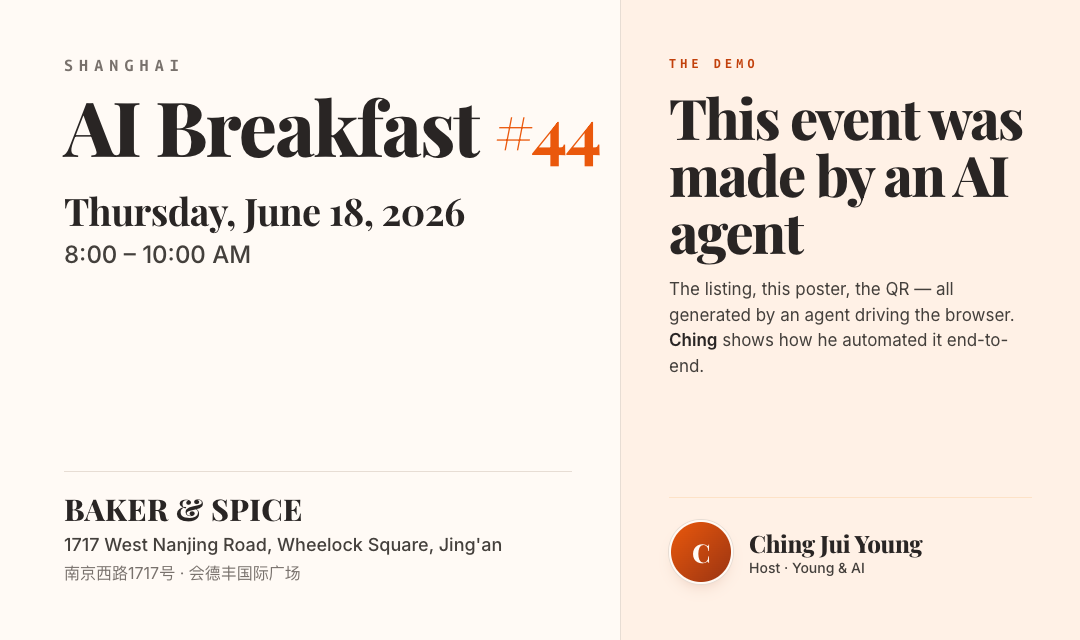
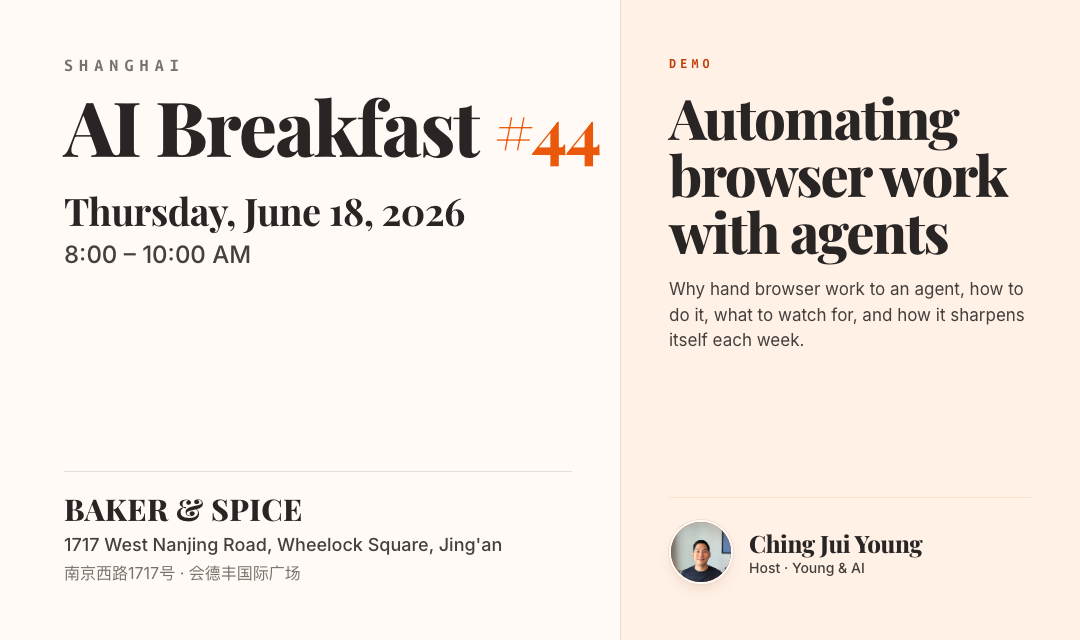
updates

Changed region(s): [[0.6111, 0.1562, 0.9472, 0.5938], [0.6111, 0.8125, 0.7028, 0.9062], [0.6111, 0.0938, 0.7028, 0.125]]

diff --git a/events/2026/ai-breakfast-44/poster-qr.html b/events/2026/ai-breakfast-44/poster-qr.html
@@ -331,19 +331,19 @@
         <div class="agenda">
           <div class="beat">
             <div class="beat-time">8:00</div>
-            <div class="beat-text">Intros — share what you're building with AI.</div>
+            <div class="beat-text">Intros</div>
           </div>
 
           <div class="beat beat-feature">
             <div class="beat-time">8:30</div>
             <div class="card">
-              <div class="card-label">The Demo · why, how, watch-outs, growth</div>
+              <div class="card-label">Demo</div>
               <div class="card-title">Automating browser work with agents</div>
               <div class="card-blurb">
-                Why hand browser tasks to an agent, how to actually do it, what to watch for, and how the agent gets sharper each week. <em>The proof:</em> this listing, this poster, and the QR below — all built by one.
+                Why hand browser tasks to an agent, how to actually do it, what to watch for, and how the agent gets sharper each week.
               </div>
               <div class="byline">
-                <div class="avatar">C</div>
+                <img class="avatar" src="images/speakers/ching.jpeg" alt="Ching Jui Young" />
                 <div class="meta">
                   <div class="name">Ching Jui Young</div>
                   <div class="role">Host of AI Breakfast · Young &amp; AI</div>

diff --git a/events/2026/ai-breakfast-44/poster.html b/events/2026/ai-breakfast-44/poster.html
@@ -305,19 +305,19 @@
         <div class="agenda">
           <div class="beat">
             <div class="beat-time">8:00</div>
-            <div class="beat-text">Intros — share what you're building with AI.</div>
+            <div class="beat-text">Intros</div>
           </div>
 
           <div class="beat beat-feature">
             <div class="beat-time">8:30</div>
             <div class="card">
-              <div class="card-label">The Demo · why, how, watch-outs, growth</div>
+              <div class="card-label">Demo</div>
               <div class="card-title">Automating browser work with agents</div>
               <div class="card-blurb">
-                Why hand browser tasks to an agent, how to actually do it, what to watch for, and how the agent gets sharper each week. <em>The proof:</em> this listing, this poster, and the QR — all built by one.
+                Why hand browser tasks to an agent, how to actually do it, what to watch for, and how the agent gets sharper each week.
               </div>
               <div class="byline">
-                <div class="avatar">C</div>
+                <img class="avatar" src="images/speakers/ching.jpeg" alt="Ching Jui Young" />
                 <div class="meta">
                   <div class="name">Ching Jui Young</div>
                   <div class="role">Host of AI Breakfast · Young &amp; AI</div>

diff --git a/events/2026/ai-breakfast-44/banner.html b/events/2026/ai-breakfast-44/banner.html
@@ -255,14 +255,14 @@
 
       <div class="right">
         <div>
-          <div class="demo-label">The Demo</div>
+          <div class="demo-label">Demo</div>
           <div class="demo-title">Automating browser work with agents</div>
           <div class="demo-blurb">
-            Why hand browser work to an agent, how to do it, what to watch for, and how it sharpens itself each week. <em>The proof:</em> this listing, this poster, the QR.
+            Why hand browser work to an agent, how to do it, what to watch for, and how it sharpens itself each week.
           </div>
         </div>
         <div class="byline">
-          <div class="avatar">C</div>
+          <img class="avatar" src="images/speakers/ching.jpeg" alt="Ching Jui Young" />
           <div class="meta">
             <div class="name">Ching Jui Young</div>
             <div class="role">Host · Young &amp; AI</div>
